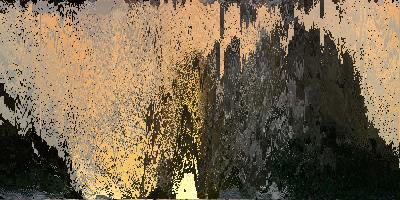
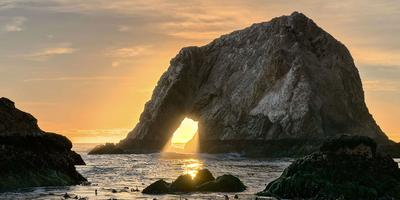
wierd stuff man

diff --git a/PixelSort/PixelSort/Program.cs b/PixelSort/PixelSort/Program.cs
@@ -66,23 +66,29 @@ namespace PixelSort {
 
 		private static int[] getSortRange(Bitmap input, int col) {
 			int[] startEnd = new int[2];
-			for(int i = 0; i < input.Height; i++) {
+			for(int i = 0; i <= input.Height - 1; i++) {
 				Color currentPix = input.GetPixel(col, i);
 				double R = currentPix.R;
 				double B = currentPix.B;
 				double G = currentPix.G;
-				double b = Math.Sqrt(0.299 * R * R + 0.587 * G * G + 0.114 * B * B);
-				if(b < .05)
+				double b = Math.Sqrt(0.299 * R * R + 0.587 * G * G + 0.114 * B * B) / 360;
+				if(b < .05) {
 					startEnd[0] = i;
+					break;
+				 }
+					
 			}
-			for(int j = startEnd[0]; j < input.Height; j++) {
+			for(int j = startEnd[0]; j <= input.Height - 1; j++) {
 				Color currentPix = input.GetPixel(col, j);
 				double R = currentPix.R;
 				double B = currentPix.B;
 				double G = currentPix.G;
-				double b = Math.Sqrt(0.299 * R * R + 0.587 * G * G + 0.114 * B * B);
-				if(b > .95)
+				double b = Math.Sqrt(0.299 * R * R + 0.587 * G * G + 0.114 * B * B) / 360;
+				if(b > .15) {
 					startEnd[1] = j;
+					break;
+				}
+					
 			}
 			return startEnd;
 		}
